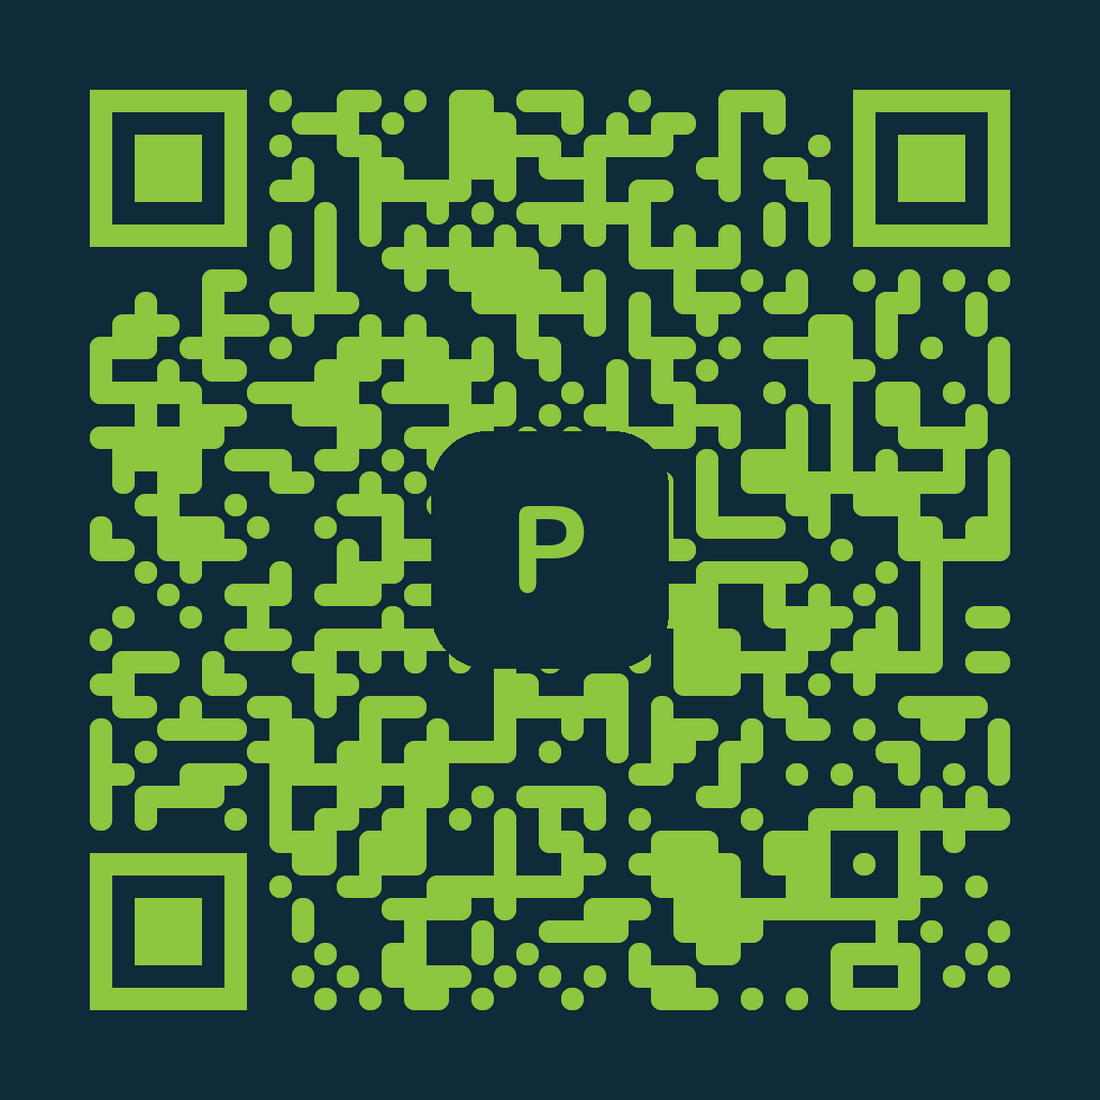
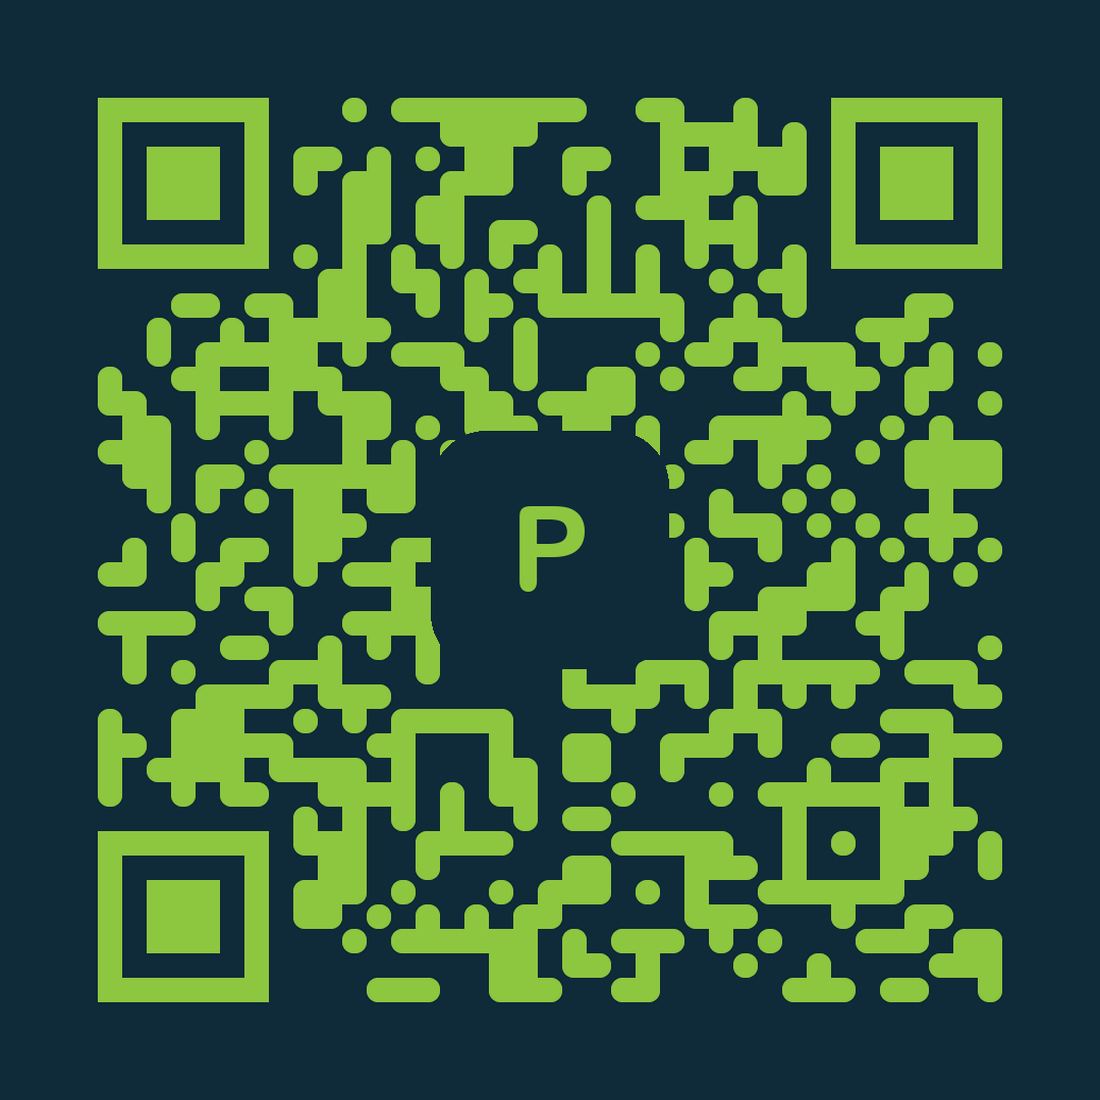
feat: unified scan counter + analytics dashboard at /stats/
- One counter for every scan regardless of which QR. Dropped the ?v= split;
  both QR artworks now encode the bare /go/ URL.
- /go/ hits `total` and a Riyadh-day bucket (`day-YYYY-MM-DD`), then redirects.
- New /stats/ dashboard (Promptle theme, light/dark): total, today, last 7 days,
  and a 14-day bar chart. Auto-refreshes every 30s; batches requests under
  abacus's 30/10s limit and keeps last-known values on a rate-limited refresh.
- Fresh namespace: promptle-icaire-live (starts at zero).

Dashboard: https://ahmed-khayat.github.io/promptle/stats/

diff --git a/stats/index.html b/stats/index.html
@@ -1,0 +1,221 @@
+<!doctype html>
+<html lang="en">
+<meta charset="utf-8">
+<meta name="viewport" content="width=device-width, initial-scale=1">
+<meta name="robots" content="noindex">
+<title>Promptle — Scan Analytics</title>
+<style>
+  :root{
+    --bg:#f4f7f5; --surface:#fff; --surface-2:#e9f0eb; --ink:#16242d; --ink-soft:#4a5a63;
+    --muted:#667079; --line:#e2e8e5; --accent:#1c5631; --bar:#1c5631;
+    --radius:16px; --shadow:0 20px 48px rgba(15,42,56,.10);
+  }
+  @media (prefers-color-scheme:dark){
+    :root:not([data-theme="light"]){
+      --bg:#0f2a38; --surface:#14384a; --surface-2:#1b425a; --ink:#fff; --ink-soft:#b7c4cb;
+      --muted:#8a99a1; --line:#24485c; --accent:#8dc63f; --bar:#8dc63f;
+      --shadow:0 20px 54px rgba(0,0,0,.45);
+    }
+  }
+  :root[data-theme="dark"]{
+    --bg:#0f2a38; --surface:#14384a; --surface-2:#1b425a; --ink:#fff; --ink-soft:#b7c4cb;
+    --muted:#8a99a1; --line:#24485c; --accent:#8dc63f; --bar:#8dc63f;
+    --shadow:0 20px 54px rgba(0,0,0,.45);
+  }
+  *{box-sizing:border-box;}
+  html,body{margin:0;}
+  body{background:var(--bg); color:var(--ink); min-height:100vh;
+    font-family:Calibri,Carlito,"Segoe UI",system-ui,-apple-system,sans-serif;
+    padding:28px 18px 56px;}
+  .wrap{max-width:820px; margin:0 auto;}
+
+  header{display:flex; align-items:flex-start; justify-content:space-between; gap:16px; margin-bottom:22px;}
+  h1{margin:0; font-size:22px; font-weight:800; letter-spacing:.01em;}
+  .sub{margin-top:3px; font-size:13px; color:var(--muted);}
+  .hbtn{border:1px solid var(--line); background:var(--surface); color:var(--ink-soft);
+    border-radius:999px; padding:8px 14px; font:inherit; font-size:13px; font-weight:700; cursor:pointer;
+    display:inline-flex; align-items:center; gap:7px;}
+  .hbtn:hover{background:var(--surface-2);}
+  .hbtn svg{width:13px; height:13px;}
+  .spin{animation:spin .7s linear infinite;}
+  @keyframes spin{to{transform:rotate(360deg);}}
+
+  .hero{background:var(--surface); border:1px solid var(--line); border-radius:var(--radius);
+    padding:22px 24px; box-shadow:var(--shadow); margin-bottom:16px;}
+  .hero .k{font-size:12px; font-weight:700; letter-spacing:.14em; text-transform:uppercase; color:var(--muted);}
+  .hero .big{font-size:56px; font-weight:800; line-height:1.05; margin-top:4px; letter-spacing:-.02em;
+    font-variant-numeric:tabular-nums;}
+  .hero .note{font-size:12.5px; color:var(--muted); margin-top:6px;}
+
+  .grid{display:grid; grid-template-columns:1fr 1fr; gap:12px; margin-bottom:16px;}
+  .card{background:var(--surface); border:1px solid var(--line); border-radius:var(--radius); padding:15px 16px;}
+  .card .k{font-size:11px; font-weight:700; letter-spacing:.1em; text-transform:uppercase; color:var(--muted);}
+  .card .v{font-size:28px; font-weight:800; margin-top:3px; font-variant-numeric:tabular-nums;}
+  .card .p{font-size:12px; color:var(--muted); margin-top:1px;}
+
+  .panel{background:var(--surface); border:1px solid var(--line); border-radius:var(--radius);
+    padding:18px 20px 20px; margin-bottom:16px;}
+  .panel h2{margin:0 0 4px; font-size:14px; font-weight:800; letter-spacing:.02em;}
+  .panel .h2sub{font-weight:400; color:var(--muted);}
+
+  .chart{display:flex; align-items:flex-end; gap:6px; height:180px; overflow-x:auto; padding-top:18px;}
+  .bar{flex:1 0 26px; display:flex; flex-direction:column; align-items:center; gap:6px; min-width:26px;}
+  .bar .col{width:100%; max-width:34px; background:var(--bar); border-radius:6px 6px 2px 2px;
+    min-height:3px; transition:height .3s;}
+  .bar.today .col{outline:2px solid var(--accent); outline-offset:2px;}
+  .bar .n{font-size:11px; font-weight:700; color:var(--ink-soft); font-variant-numeric:tabular-nums;}
+  .bar .d{font-size:10px; color:var(--muted); white-space:nowrap;}
+  .bar.today .d{color:var(--accent); font-weight:700;}
+
+  .foot{font-size:12px; color:var(--muted); text-align:center; margin-top:8px;}
+  .foot a{color:var(--accent);}
+  .stale{color:#c98a1f;}
+  [hidden]{display:none!important;}
+</style>
+
+<div class="wrap">
+  <header>
+    <div>
+      <h1>Promptle · Scan Analytics</h1>
+      <div class="sub">ICAIRE booth — opens of the “Scan to play” QR code</div>
+    </div>
+    <button class="hbtn" id="refresh" title="Refresh">
+      <svg viewBox="0 0 16 16" fill="none" stroke="currentColor" stroke-width="1.7" stroke-linecap="round"><path d="M13.5 8a5.5 5.5 0 1 1-1.6-3.9M13.5 2v3.5H10"/></svg>
+      <span>Refresh</span>
+    </button>
+  </header>
+
+  <div class="hero">
+    <div class="k">Total scans</div>
+    <div class="big" id="total">—</div>
+    <div class="note">Every open of the tracked link, from either QR. Cumulative — the number only goes up.</div>
+  </div>
+
+  <div class="grid">
+    <div class="card">
+      <div class="k">Today</div>
+      <div class="v" id="today">—</div>
+      <div class="p">Riyadh time · <span id="todayDate">—</span></div>
+    </div>
+    <div class="card">
+      <div class="k">Last 7 days</div>
+      <div class="v" id="week">—</div>
+      <div class="p">rolling total</div>
+    </div>
+  </div>
+
+  <div class="panel">
+    <h2>Scans per day <span class="h2sub">· Riyadh time, last 14 days</span></h2>
+    <div class="chart" id="chart"></div>
+  </div>
+
+  <div class="foot">
+    Auto-refreshes every 30 s · data from
+    <a href="https://abacus.jasoncameron.dev/get/promptle-icaire-live/total" target="_blank" rel="noopener">abacus</a>
+    · <span id="updated">loading…</span>
+  </div>
+</div>
+
+<script>
+(function(){
+  var NS = "promptle-icaire-live";
+  var BASE = "https://abacus.jasoncameron.dev/get/" + NS + "/";
+  var DAYS = 14;
+
+  var $ = function(id){ return document.getElementById(id); };
+  var fmt = function(n){ return (n || 0).toLocaleString("en-US"); };
+
+  function riyadhNow(){ return new Date(Date.now() + 3*3600*1000); }
+  function isoDay(offset){
+    var d = riyadhNow(); d.setUTCDate(d.getUTCDate() - (offset || 0));
+    return d.toISOString().slice(0,10);
+  }
+  function shortDate(iso){ var p = iso.split("-"); return p[2] + "/" + p[1]; }
+
+  // last known good values, so a rate-limited refresh never blanks the page
+  var store = {};
+
+  // returns {ok:bool, value:number|undefined}
+  function getKey(k){
+    return fetch(BASE + k, {cache:"no-store"}).then(function(r){
+      if (r.status === 404) return {ok:true, value:0};        // key genuinely never hit
+      if (!r.ok) return {ok:false};                            // 429 / 5xx — unknown
+      return r.json().then(function(j){
+        return {ok:true, value:(j && typeof j.value === "number") ? j.value : 0};
+      });
+    }).catch(function(){ return {ok:false}; });
+  }
+
+  // fetch in batches of 6 with a gap, to stay under 30 req / 10 s
+  function getMany(keys){
+    var i = 0, anyFail = false;
+    function batch(){
+      var slice = keys.slice(i, i+6); i += 6;
+      return Promise.all(slice.map(function(k){
+        return getKey(k).then(function(res){
+          if (res.ok) store[k] = res.value; else anyFail = true;
+        });
+      })).then(function(){
+        return i < keys.length
+          ? new Promise(function(res){ setTimeout(res, 350); }).then(batch)
+          : { stale: anyFail };
+      });
+    }
+    return batch();
+  }
+
+  function render(meta){
+    var days = [];
+    for (var k = DAYS - 1; k >= 0; k--){
+      var iso = isoDay(k);
+      days.push({ iso: iso, n: store["day-" + iso] || 0 });
+    }
+    var todayN = store["day-" + isoDay(0)] || 0;
+    var weekN = 0; for (var w = 0; w < 7; w++) weekN += store["day-" + isoDay(w)] || 0;
+
+    $("total").textContent = fmt(store.total);
+    $("today").textContent = fmt(todayN);
+    $("week").textContent  = fmt(weekN);
+    $("todayDate").textContent = shortDate(isoDay(0));
+
+    var max = Math.max(1, Math.max.apply(null, days.map(function(x){ return x.n; })));
+    var chart = $("chart"); chart.innerHTML = "";
+    days.forEach(function(x, idx){
+      var b = document.createElement("div");
+      b.className = "bar" + (idx === days.length - 1 ? " today" : "");
+      b.innerHTML =
+        '<span class="n">' + (x.n || "") + '</span>' +
+        '<div class="col" style="height:' + (x.n / max * 120) + 'px"></div>' +
+        '<span class="d">' + shortDate(x.iso) + '</span>';
+      chart.appendChild(b);
+    });
+
+    var t = new Date().toLocaleTimeString();
+    $("updated").innerHTML = meta && meta.stale
+      ? '<span class="stale">partial data (rate-limited) · retried automatically · ' + t + '</span>'
+      : 'updated ' + t;
+  }
+
+  var busy = false;
+  function load(){
+    if (busy) return;
+    busy = true;
+    $("refresh").querySelector("svg").classList.add("spin");
+
+    var keys = ["total"];
+    for (var k = 0; k < DAYS; k++) keys.push("day-" + isoDay(k));
+
+    getMany(keys).then(render).catch(function(){
+      render({ stale: true });
+    }).finally(function(){
+      busy = false;
+      $("refresh").querySelector("svg").classList.remove("spin");
+    });
+  }
+
+  $("refresh").addEventListener("click", load);
+  load();
+  setInterval(load, 30000);
+})();
+</script>
+</html>

diff --git a/go/index.html b/go/index.html
@@ -23,20 +23,22 @@
 <script>
 (function () {
   var DEST = "https://ahmed-khayat.github.io/promptle/";
-  var NS = "promptle-icaire-booth";           // scan counter namespace (abacus.jasoncameron.dev)
+  var NS  = "promptle-icaire-live";           // scan-counter namespace (abacus.jasoncameron.dev)
   var API = "https://abacus.jasoncameron.dev/hit/" + NS + "/";
-  var p = new URLSearchParams(location.search);
-  var v = p.get("v");
-  var key = v === "d" ? "dark" : v === "l" ? "light" : "direct";
+
+  // one counter for every scan, whichever QR it came from.
+  // day bucket in Riyadh time (UTC+3) so the dashboard's daily chart lines up with the event.
+  var riyadh = new Date(Date.now() + 3 * 3600 * 1000);
+  var day = "day-" + riyadh.toISOString().slice(0, 10);
 
   var done = false;
   function go() { if (done) return; done = true; location.replace(DEST); }
-  setTimeout(go, 1500);                       // hard cap — never trap the visitor
+  setTimeout(go, 1500);                        // hard cap — never trap the visitor
 
   try {
-    var hits = [fetch(API + "total", { cache: "no-store", keepalive: true }),
-                fetch(API + key,     { cache: "no-store", keepalive: true })];
-    Promise.allSettled(hits).then(go, go);
+    Promise.allSettled(["total", day].map(function (k) {
+      return fetch(API + k, { cache: "no-store", keepalive: true });
+    })).then(go, go);
   } catch (e) { go(); }
 })();
 </script>
